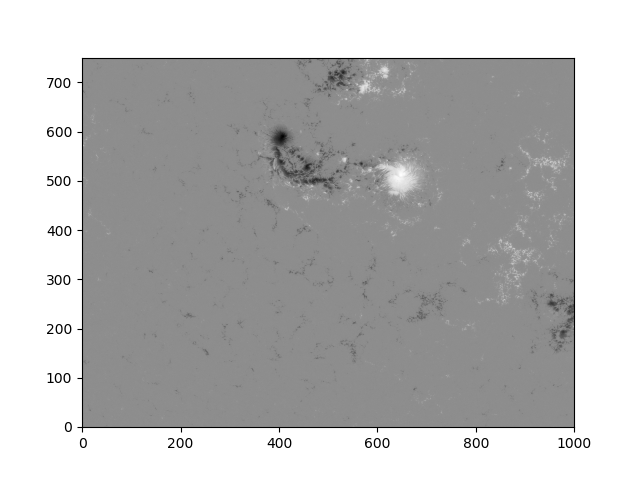
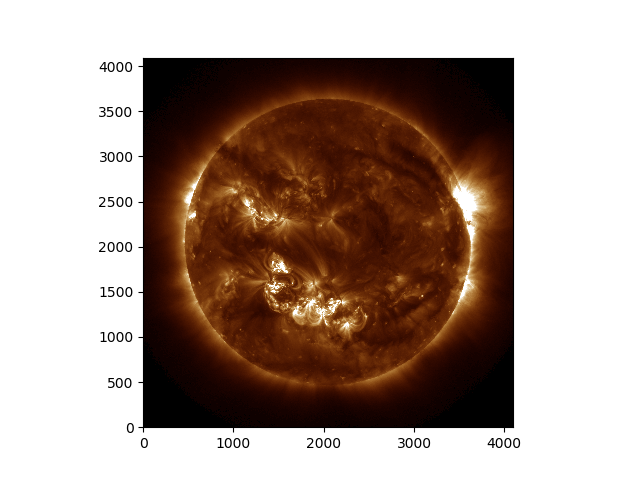
New version 30.01.2019
Updated input data files to nicer examples

diff --git a/1_map_from_sav/1_plot_map_from_sav.py b/1_map_from_sav/1_plot_map_from_sav.py
@@ -2,18 +2,15 @@
 
 #---- Imports ----------------------------------------------------------#
 
-from scipy.io.idl import readsav                    # For reading IDL data
-import matplotlib.pyplot as plt                     # For plotting
-
-##import matplotlib.pyplot as plt
-##import sunpy.cm
-##cmap = plt.get_cmap('sdoaia171')
+from scipy.io.idl import readsav        #For reading IDL data
+import matplotlib.pyplot as plt         #For plotting
+import sunpy.cm                         #For solar colourmaps
 
 #---- Inputs -----------------------------------------------------------#
 
 data_path = ('/Users/alexanderjames/Documents/PhD/Python_Code'
              '/Python_Taster/1_map_from_sav/')
-sav_file = '20120614_1030_1316_smaparr_0hmi.sav'
+sav_file = 'aia_193_maps.sav'
 
 #---- Read Data --------------------------------------------------------#
 
@@ -21,12 +18,10 @@ idl_data = readsav(data_path+sav_file)  #Read the sav file
 
 print(idl_data)                         #See what is in this sav file
 
-maps = idl_data.smaparr                 #Take the maps from the sav file
-#Note, 'smaparr' is just the name of the IDL variable I saved in my sav
-#file. It's an array of submaps! But this will be whatever you decide
-#to call your variable in IDL.
+maps = idl_data.maps                    #Take the maps from the sav file
+#Note: this will depend on what you decide to call your variable in IDL.
 #e.g.:
-#   IDL > save, smaparr, '20120614_1030_1316_smaparr_0hmi.sav'
+#   IDL > save, filename='aia_193_maps.sav', maps, /compress
 
 print(len(maps))                        #This sav file contains 2 maps
 
@@ -34,10 +29,12 @@ data = maps[0]['data']                  #Take data of the 1st (0th) map
 
 #---- Plotting ---------------------------------------------------------#
 
+cmap = plt.get_cmap('sdoaia193')        #Choose AIA 193 colormap
+
 fig = plt.figure()                      #Set up a blank Figure
 ax = fig.add_subplot(111)               #Set up a blank axis in the Figure
 ax.imshow(data, origin='lower',         #Plot data with origin in lower left...
-          cmap='Greys_r')               #...and black-grey-white colourmap
+          cmap=cmap, vmin=0, vmax=3000) #...with our chosen colormap
 plt.savefig('map_from_sav.png')         #Save the Figure
 plt.show()                              #Show the Figure
 
@@ -60,9 +57,10 @@ right = xc + ((xpix*0.5)*dx)            #X-coordinate of right edge in arcsec
 bottom = yc - ((ypix*0.5)*dy)           #Y-coordinate of bottom edge in arcsec
 top = yc + ((ypix*0.5)*dy)              #Y-coordinate of top edge in arcsec
 
-plt.imshow(data, origin='lower', cmap='Greys_r',    #Plot image...
-           extent=[left,right,bottom,top])          #...with given coordinates
+plt.imshow(data, origin='lower', cmap=cmap,     #Plot image...
+           vmin=0, vmax=3000,                   #...with saturation limits...
+           extent=[left,right,bottom,top])      #...with specified coordinates
 plt.xlabel(xunits)                      #Label X-axis with units
 plt.ylabel(yunits)                      #Label Y-axis with units
-plt.savefig('map_from_sav_arcsec.png')  #Save the Figure
+plt.savefig('map_from_sav2.png')        #Save the Figure
 plt.show()                              #Show the Figure

diff --git a/2_map_from_fits/2_plot_map_from_fits.py b/2_map_from_fits/2_plot_map_from_fits.py
@@ -2,10 +2,11 @@
 
 #---- Imports ----------------------------------------------------------#
 
-from os import listdir                      #For finding FITS files
-from os.path import isfile, join            #For finding FITS files
-import sunpy.map                            #For making maps
-import matplotlib.pyplot as plt             #For plotting
+from os import listdir                  #For finding FITS files
+from os.path import isfile, join        #For finding FITS files
+import sunpy.map                        #For making maps
+import matplotlib.pyplot as plt         #For plotting
+import sunpy.cm                         #For solar colourmaps
 
 #---- Inputs -----------------------------------------------------------#
 
@@ -28,13 +29,6 @@ data = smap.data                        #Get data from map
 
 fig = plt.figure()                      #Set up a blank Figure
 ax = fig.add_subplot(111)               #Set up a blank axis in the Figure
-ax.imshow(data, origin='lower',         #Plot data with origin in lower left...
-          cmap='Greys_r')               #...in black-grey-white colourmap
-plt.savefig('map_from_fits.png')        #Save the Figure
+smap.plot()                             #Plot the Map
+plt.savefig('map_from_fits.png')       #Save the Figure
 plt.show()                              #Show the Figure
-
-#---- Plotting Alternative ---------------------------------------------#
-
-smap.plot()                             #Automatic SunPy Plotting!
-plt.savefig('map_from_fits_v2.png')     #Save the Figure
-plt.show                                #Try me!

diff --git a/3_fun_with_plotting/3a_subplots.py b/3_fun_with_plotting/3a_subplots.py
@@ -17,15 +17,15 @@ data_path = ('/Users/alexanderjames/Documents/PhD/Python_Code'
 #Find all FITS files in the data_path
 files = [data_path+f for f in listdir(data_path) if isfile(join(data_path, f))
          and '.fits' in f]
-files = sorted(files)       #sort alphabetically to get them in date-order
+files = sorted(files)                       #sort to get them in date-order
 
-smap1 = sunpy.map.Map(files[0]) #Make first map
+smap1 = sunpy.map.Map(files[0])             #Make first map
 
-smap2 = sunpy.map.Map(files[1]) #Make second map
+smap2 = sunpy.map.Map(files[1])             #Make second map
 
 #---- Plotting ---------------------------------------------------------#
 
-fig = plt.figure(figsize=(10,4))         #Set up a blank Figure, size in inches
+fig = plt.figure(figsize=(10,4))         #Set up a blank Figure. Size in inches
 
 ax1 = fig.add_subplot(1,2,1, projection=smap1)  #1 row, 2 columns, 1st axis
 smap1.plot()                                    #Plot the first Map on axis 1
